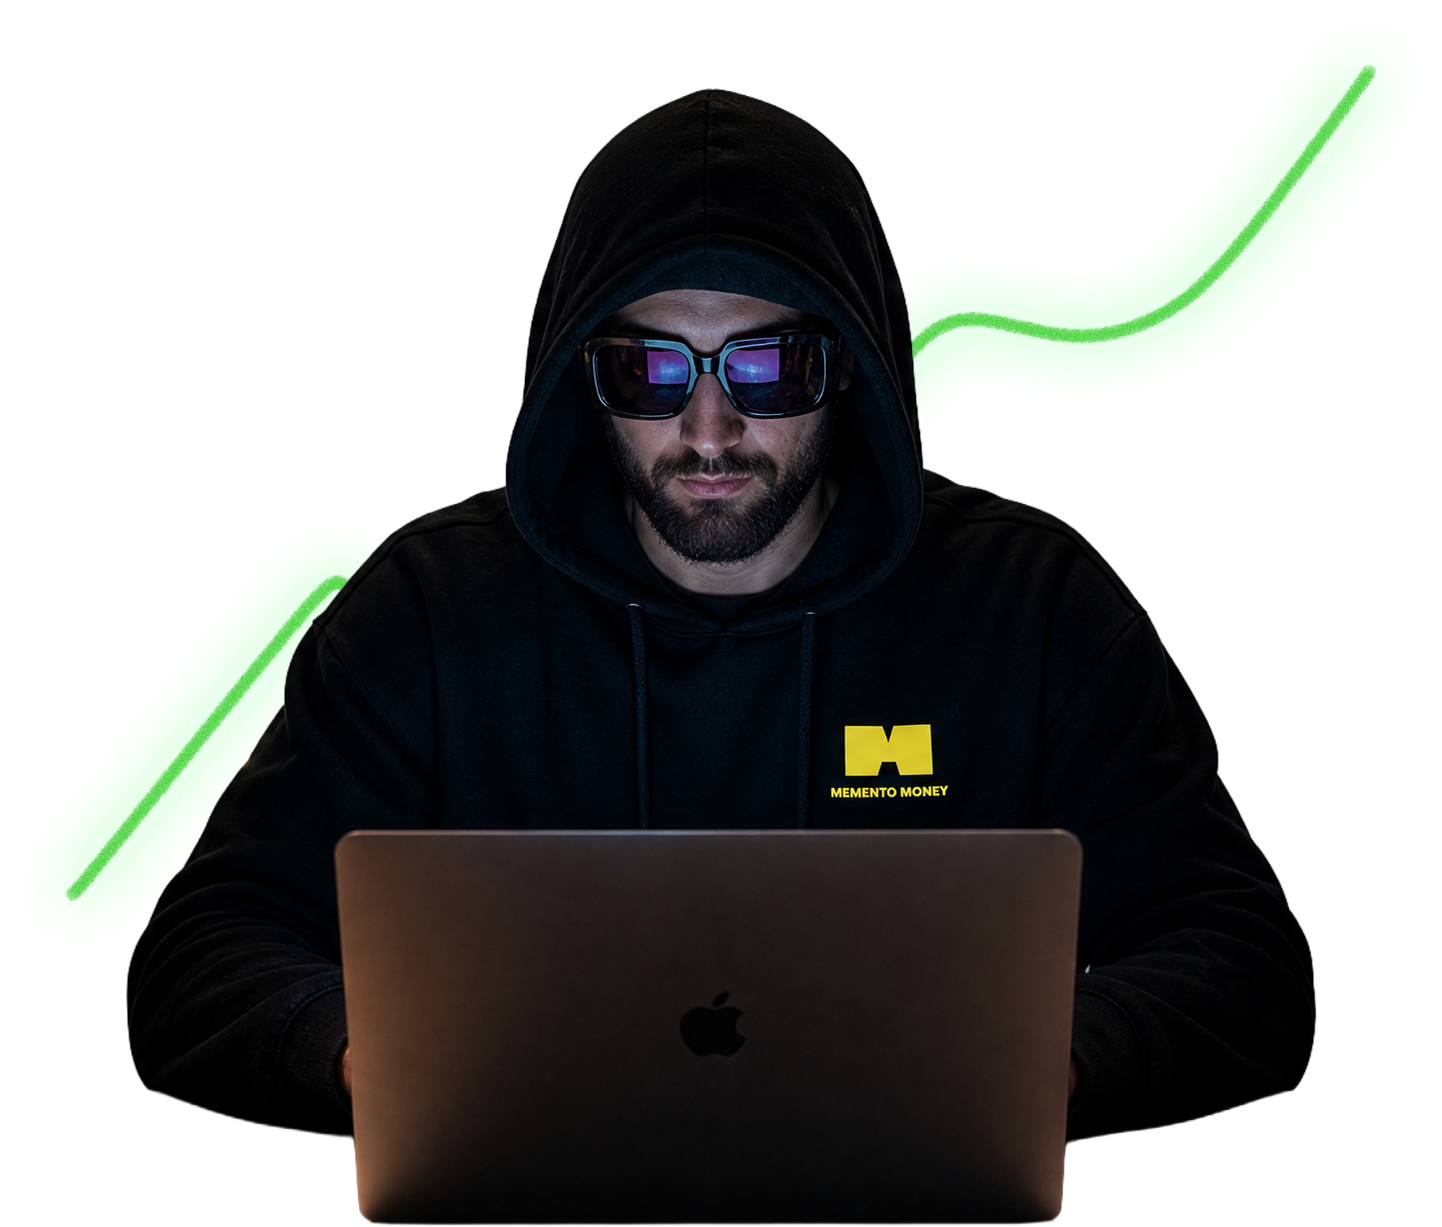
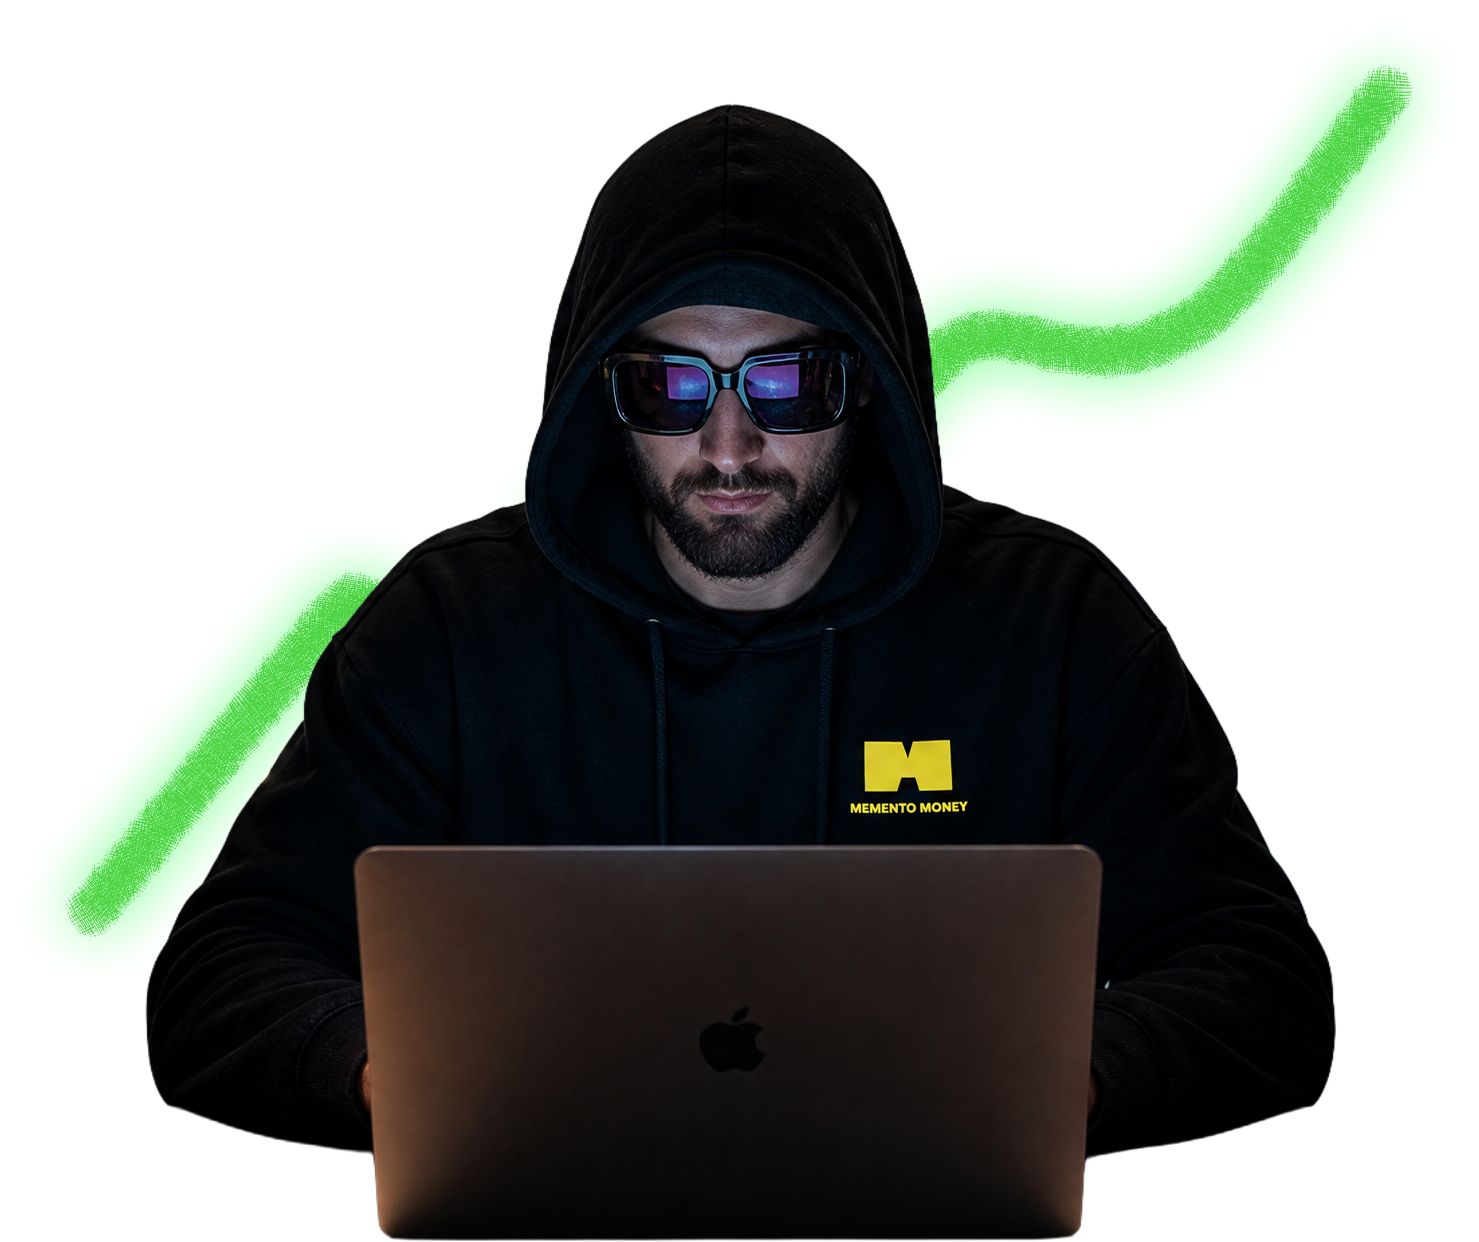
Update landing page: enhance hero video autoplay, optimize list formatting, and refine responsive layout

diff --git a/src/components/landingpage/look.svelte b/src/components/landingpage/look.svelte
@@ -18,14 +18,17 @@
 			formData.append('surname', surname);
 			formData.append('email', email);
 
-			await fetch('https://nanoczm.ecomailapp.cz/public/subscribe/5/ed07fd6b07ff0199fabc8509f995f058', {
-				method: 'POST',
-				headers: {
-					'Content-Type': 'application/x-www-form-urlencoded'
-				},
-				mode: 'no-cors',
-				body: formData.toString()
-			});
+			await fetch(
+				'https://nanoczm.ecomailapp.cz/public/subscribe/5/ed07fd6b07ff0199fabc8509f995f058',
+				{
+					method: 'POST',
+					headers: {
+						'Content-Type': 'application/x-www-form-urlencoded'
+					},
+					mode: 'no-cors',
+					body: formData.toString()
+				}
+			);
 
 			// Direct redirect to registration success page
 			goto('/registrace-uspesna');
@@ -68,10 +71,10 @@
 		<h1
 			class="z-10 mt-6 max-w-[950px] px-4 text-center text-[36px] md:text-[40px] text-white text-nowrap font-extrabold leading-tight"
 		>
-			Nahlédněte <span class="font-['Playball'] text-[#FFBA00] font-normal italic">do našeho</span>
+			Nahlédněte <span class="font-['Playball'] text-[#FFBA00] font-normal">do našeho</span>
 			<br />
-			<span class="font-['Playball'] text-[#FFBA00] font-normal italic mr-1.5">portfolia</span> a
-			sledujte, jak
+			<span class="font-['Playball'] text-[#FFBA00] font-normal mr-1.5">portfolia</span> a sledujte,
+			jak
 			<br />
 			aktuálně přemýšlíme
 			<br />
@@ -90,7 +93,7 @@
 		</div>
 
 		<!-- "Co vše dostanete" Lavender Card -->
-		<div class="z-10 -mt-14 w-full max-w-[480px] px-2 md:px-0">
+		<div class="z-10 -mt-14 w-full max-w-[650px] px-2 md:px-0">
 			<div class="w-full bg-[#E7E1FB] rounded-[20px] p-6 md:p-8 flex flex-col text-[#000000] gap-1">
 				<h3
 					class="text-[22px] md:text-[24px] mt-6 text-[#000000] font-bold text-left tracking-tight"
@@ -100,52 +103,83 @@
 
 				<div class="flex flex-col gap-3">
 					<!-- Item 1 -->
-					<div class="flex items-start gap-2">
-						<img src="/assets/icons/Checkmark.png" alt="Check" class="w-4 h-4 shrink-0 mt-1 select-none pointer-events-none" draggable="false" loading="lazy" />
-						<p class="text-[15px] md:text-[16px] font-normal text-left leading-relaxed">
+					<div class="flex items-start gap-2 md:gap-3">
+						<img
+							src="/assets/icons/Checkmark.png"
+							alt="Check"
+							class="w-4 h-4 md:w-[18px] md:h-[18px] shrink-0 mt-[5px] select-none pointer-events-none"
+							draggable="false"
+							loading="lazy"
+						/>
+						<p class="text-[15px] md:text-[18px] font-normal text-left leading-relaxed">
 							<strong class="font-extrabold text-[#000000]">Deníky Nic Nevim</strong> - Jak
-							přemýšlíme<br />
-							nad našimi obchody za 5 minut týdně
+							přemýšlíme<br class="block md:hidden" /> nad našimi obchody za 5 minut týdně
 						</p>
 					</div>
 
 					<!-- Item 2 -->
-					<div class="flex items-start gap-2">
-						<img src="/assets/icons/Checkmark.png" alt="Check" class="w-4 h-4 shrink-0 mt-1 select-none pointer-events-none" draggable="false" loading="lazy" />
-						<p class="text-[15px] md:text-[16px] font-normal text-left leading-relaxed">
+					<div class="flex items-start gap-2 md:gap-3">
+						<img
+							src="/assets/icons/Checkmark.png"
+							alt="Check"
+							class="w-4 h-4 md:w-[18px] md:h-[18px] shrink-0 mt-[5px] select-none pointer-events-none"
+							draggable="false"
+							loading="lazy"
+						/>
+						<p class="text-[15px] md:text-[18px] font-normal text-left leading-relaxed">
 							<strong class="font-extrabold text-[#000000]">Aktuální příležitosti</strong>, které
-							máme<br />
-							v hledáčku
+							máme<br class="block md:hidden" /> v hledáčku
 						</p>
 					</div>
 
 					<!-- Item 3 -->
-					<div class="flex items-start gap-2">
-						<img src="/assets/icons/Checkmark.png" alt="Check" class="w-4 h-4 shrink-0 mt-1 select-none pointer-events-none" draggable="false" loading="lazy" />
-						<p class="text-[15px] md:text-[16px] font-normal text-left leading-relaxed">
-							<strong class="font-extrabold text-[#000000]">Jednorázový snímek našeho</strong><br />
+					<div class="flex items-start gap-2 md:gap-3">
+						<img
+							src="/assets/icons/Checkmark.png"
+							alt="Check"
+							class="w-4 h-4 md:w-[18px] md:h-[18px] shrink-0 mt-[5px] select-none pointer-events-none"
+							draggable="false"
+							loading="lazy"
+						/>
+						<p class="text-[15px] md:text-[18px] font-normal text-left leading-relaxed">
+							<strong class="font-extrabold text-[#000000]">Jednorázový snímek našeho</strong><br
+								class="block md:hidden"
+							/>
 							<strong class="font-extrabold text-[#000000]">portfolia</strong> pro inspiraci a učení
 						</p>
 					</div>
 
 					<!-- Item 4 -->
-					<div class="flex items-start gap-2">
-						<img src="/assets/icons/Checkmark.png" alt="Check" class="w-4 h-4 shrink-0 mt-1 select-none pointer-events-none" draggable="false" loading="lazy" />
-						<p class="text-[15px] md:text-[16px] font-normal text-left leading-relaxed">
+					<div class="flex items-start gap-2 md:gap-3">
+						<img
+							src="/assets/icons/Checkmark.png"
+							alt="Check"
+							class="w-4 h-4 md:w-[18px] md:h-[18px] shrink-0 mt-[5px] select-none pointer-events-none"
+							draggable="false"
+							loading="lazy"
+						/>
+						<p class="text-[15px] md:text-[18px] font-normal text-left leading-relaxed">
 							<strong class="font-extrabold text-[#000000]">Rozbor našich reálných obchodů</strong
-							>,<br />
-							uvidíte, jak principy používáme v<br />
-							praxi
+							>,<br class="block md:hidden" />
+							uvidíte, jak principy používáme v<br class="block md:hidden" /> praxi
 						</p>
 					</div>
 
 					<!-- Item 5 -->
-					<div class="flex items-start gap-2">
-						<img src="/assets/icons/Checkmark.png" alt="Check" class="w-4 h-4 shrink-0 mt-1 select-none pointer-events-none" draggable="false" loading="lazy" />
-						<p class="text-[15px] md:text-[16px] font-normal text-left leading-relaxed">
-							Koukáte přes rameno člověku, který<br />
-							se podílí na investicích v
-							<strong class="font-extrabold text-[#000000]">řádu stovek</strong><br />
+					<div class="flex items-start gap-2 md:gap-3">
+						<img
+							src="/assets/icons/Checkmark.png"
+							alt="Check"
+							class="w-4 h-4 md:w-[18px] md:h-[18px] shrink-0 mt-[5px] select-none pointer-events-none"
+							draggable="false"
+							loading="lazy"
+						/>
+						<p class="text-[15px] md:text-[18px] font-normal text-left leading-relaxed">
+							Koukáte přes rameno člověku, který<br class="block md:hidden" /> se podílí na
+							investicích v
+							<strong class="font-extrabold text-[#000000]">řádu stovek</strong><br
+								class="block md:hidden"
+							/>
 							<strong class="font-extrabold text-[#000000]">milionů korun</strong>
 						</p>
 					</div>
@@ -189,7 +223,10 @@
 				</p>
 
 				<!-- Sign up Form Container -->
-				<form on:submit={handleSubmit} class="mt-8 flex flex-col gap-3.5 w-full max-w-[440px] mx-auto">
+				<form
+					on:submit={handleSubmit}
+					class="mt-8 flex flex-col gap-3.5 w-full max-w-[480px] mx-auto"
+				>
 					<input
 						type="text"
 						name="firstname"

diff --git a/src/components/landingpage/help.svelte b/src/components/landingpage/help.svelte
@@ -119,7 +119,13 @@
 					class="p-4 md:p-8 rounded-[14px] md:rounded-[20px] flex flex-col justify-between gap-3 md:gap-4"
 					style="background: linear-gradient(135deg, rgba(15, 46, 16, 0.5) 0%, rgba(33, 101, 36, 0.5) 50%, rgba(15, 46, 16, 0.5) 100%);"
 				>
-					<img src="/assets/icons/Kolac.svg" alt="Portfolio Icon" class="w-7 h-7 md:w-10 md:h-10 select-none pointer-events-none" draggable="false" loading="lazy" />
+					<img
+						src="/assets/icons/Kolac.svg"
+						alt="Portfolio Icon"
+						class="w-7 h-7 md:w-10 md:h-10 select-none pointer-events-none"
+						draggable="false"
+						loading="lazy"
+					/>
 					<h3
 						class="text-white text-[16px] md:text-[24px] font-bold leading-[1.4] md:leading-tight"
 					>
@@ -132,7 +138,13 @@
 					class="p-4 md:p-8 rounded-[14px] md:rounded-[20px] flex flex-col justify-between gap-3 md:gap-4"
 					style="background: linear-gradient(135deg, rgba(15, 46, 16, 0.5) 0%, rgba(33, 101, 36, 0.5) 50%, rgba(15, 46, 16, 0.5) 100%);"
 				>
-					<img src="/assets/icons/globe.svg" alt="Globe Icon" class="w-7 h-7 md:w-10 md:h-10 select-none pointer-events-none" draggable="false" loading="lazy" />
+					<img
+						src="/assets/icons/globe.svg"
+						alt="Globe Icon"
+						class="w-7 h-7 md:w-10 md:h-10 select-none pointer-events-none"
+						draggable="false"
+						loading="lazy"
+					/>
 					<h3
 						class="text-white text-[16px] md:text-[24px] font-bold leading-[1.4] md:leading-tight"
 					>
@@ -169,7 +181,7 @@
 			></div>
 
 			<p
-				class="relative z-10 text-white text-[20px] md:text-[36px] font-bold mb-4 mt-15 text-center"
+				class="relative z-10 text-white text-[18px] md:text-[26px] font-bold mb-4 mt-15 text-center"
 			>
 				Zde jsou výsledky <br />naší strategie:
 			</p>
@@ -192,8 +204,6 @@
 					/>
 				</div>
 			</div>
-
-
 
 			<!-- Mobile Navigation Buttons (Mobile only) -->
 			<div class="md:hidden flex justify-center gap-3 mt-4 mb-4">
@@ -246,7 +256,7 @@
 						Cílem naší strategie je<br />dlouhodobé zhodnocení v<br />řádu
 						<span class="text-[#D3C295]">20-30% p.a.</span>
 					</h3>
-					<p class="text-white text-[14px] md:text-[15px] font-medium leading-[1.6]">
+					<p class="text-white text-[15px] font-medium leading-[1.6]">
 						Výsledky z minulých let ukazují, že<br />tato strategie funguje, nicméně i přes<br />to
 						dosažení našeho cíle nelze<br />garantovat. V denících vám ukážeme<br />konkrétní
 						obchody a celý myšlenkový<br />proces, abyste se mohli inspirovat a<br />dělat
@@ -270,7 +280,7 @@
 						Naše obchody sleduje<br />živě <span class="text-[#D3C295]">přes 450 investorů</span><br
 						/>v placené komunitě
 					</h3>
-					<p class="text-white text-[14px] md:text-[15px] font-medium leading-[1.6]">
+					<p class="text-white text-[15px] font-medium leading-[1.6]">
 						Uvnitř naší Discord komunity sdílím<br />každý nový obchod –
 						<span class="text-[#D3C295]">co nakupujeme,<br />proč a kdy prodáváme</span>. Naše
 						výsledky<br />si tam může kdokoliv zpětně dohledat.<br />V tomto deníku můžete
@@ -295,7 +305,7 @@
 						Podílíme se na investicích<br />v řádech
 						<span class="text-[#D3C295]">stovek milionů<br />korun</span>
 					</h3>
-					<p class="text-white text-[14px] md:text-[15px] font-medium leading-[1.6]">
+					<p class="text-white text-[15px] font-medium leading-[1.6]">
 						Nejsme žádní teoretici - spravujeme<br />kapitál pro kvalifikované investory a<br
 						/><span class="text-[#D3C295]">uzavíráme stovky obchodů ročně</span>. To,<br />co vás
 						učíme, sami aplikujeme každý<br />den s reálnými penězi na akciových<br />trzích.

diff --git a/src/components/landingpage/hero.svelte b/src/components/landingpage/hero.svelte
@@ -28,10 +28,10 @@
 		<h1
 			class="z-10 mt-6 max-w-[950px] px-4 text-center text-[36px] md:text-[40px] text-white font-extrabold leading-tight"
 		>
-			Nahlédněte <span class="font-['Playball'] text-[#FFBA00] font-normal italic">do našeho</span>
+			Nahlédněte <span class="font-['Playball'] text-[#FFBA00] font-normal">do našeho</span>
 			<br />
-			<span class="font-['Playball'] text-[#FFBA00] font-normal italic mr-1.5">portfolia</span> a
-			sledujte, jak
+			<span class="font-['Playball'] text-[#FFBA00] font-normal mr-1.5">portfolia</span> a sledujte,
+			jak
 			<br />
 			aktuálně přemýšlíme
 			<br />
@@ -66,7 +66,7 @@
 				style="box-shadow: 0 25px 50px -12px rgb(0 0 0 / 0.25); -webkit-box-shadow: 0 25px 50px -12px rgb(0 0 0 / 0.25); will-change: transform; transform: translate3d(0, 0, 0);"
 			>
 				<iframe
-					src="https://player.vimeo.com/video/1193758413?h=5e3bc3c930&amp;title=0&amp;byline=0&amp;portrait=0&amp;badge=0&amp;autopause=0&amp;player_id=0&amp;app_id=58479"
+					src="https://player.vimeo.com/video/1193758413?h=5e3bc3c930&amp;title=0&amp;byline=0&amp;portrait=0&amp;badge=0&amp;autopause=0&amp;player_id=0&amp;app_id=58479&amp;autoplay=1&amp;muted=1&amp;loop=1"
 					frameborder="0"
 					allow="autoplay; fullscreen; picture-in-picture; clipboard-write; encrypted-media; web-share"
 					referrerpolicy="strict-origin-when-cross-origin"
@@ -82,7 +82,13 @@
 				style="background: linear-gradient(90deg, #4F00A3 0%, #7B00FF 50%, #4F00A3 100%);"
 			>
 				<div class="flex items-center gap-2.5">
-					<img src="/assets/icons/Vector.svg" alt="Icon" class="w-5 h-auto select-none pointer-events-none" draggable="false" loading="lazy" />
+					<img
+						src="/assets/icons/Vector.svg"
+						alt="Icon"
+						class="w-5 h-auto select-none pointer-events-none"
+						draggable="false"
+						loading="lazy"
+					/>
 					<h3 class="text-white text-[18px] font-semibold">Stačí 5 minut týdně</h3>
 				</div>
 				<p class="text-white text-[14px] md:text-[16px] font-normal opacity-90">
@@ -95,7 +101,13 @@
 				style="background: linear-gradient(90deg, #4F00A3 0%, #7B00FF 50%, #4F00A3 100%);"
 			>
 				<div class="flex items-center gap-2.5">
-					<img src="/assets/icons/Vector-1.svg" alt="Icon" class="w-6 h-auto select-none pointer-events-none" draggable="false" loading="lazy" />
+					<img
+						src="/assets/icons/Vector-1.svg"
+						alt="Icon"
+						class="w-6 h-auto select-none pointer-events-none"
+						draggable="false"
+						loading="lazy"
+					/>
 					<h3 class="text-white text-[18px] font-semibold">Sdílíme příležitosti</h3>
 				</div>
 				<p class="text-white text-[14px] md:text-[16px] font-normal opacity-90">
@@ -108,7 +120,13 @@
 				style="background: linear-gradient(90deg, #4F00A3 0%, #7B00FF 50%, #4F00A3 100%);"
 			>
 				<div class="flex items-center gap-2.5">
-					<img src="/assets/icons/Vector-2.svg" alt="Icon" class="w-4.5 h-auto select-none pointer-events-none" draggable="false" loading="lazy" />
+					<img
+						src="/assets/icons/Vector-2.svg"
+						alt="Icon"
+						class="w-4.5 h-auto select-none pointer-events-none"
+						draggable="false"
+						loading="lazy"
+					/>
 					<h3 class="text-white text-[18px] font-semibold">450+ investorů</h3>
 				</div>
 				<p class="text-white text-[14px] md:text-[16px] font-normal opacity-90">

diff --git a/src/components/landingpage/knowhow.svelte b/src/components/landingpage/knowhow.svelte
@@ -81,10 +81,12 @@
 			schránce za 5 minut týdně.
 		</p>
 
-		<!-- Email Sketches Container (Desktop & Mobile: stacked, max-width: 330px) -->
-		<div class="flex flex-col gap-4 mt-6 px-4 w-full max-w-[345px] z-10">
-			<!-- Sketch 1 -->
-			<div class="relative overflow-hidden p-px">
+		<!-- Email Sketches Container (Desktop: side-by-side, Moody's left, Reddit right, larger) -->
+		<div
+			class="flex flex-col md:flex-row gap-4 md:gap-6 mt-5 px-4 w-full max-w-[345px] md:max-w-[840px] md:justify-center z-10"
+		>
+			<!-- Sketch 1 (Reddit) - Top on mobile, Right on desktop -->
+			<div class="relative overflow-hidden p-px w-full md:max-w-[400px] order-1 md:order-2">
 				<img
 					src="/assets/addpics/Email for fast sketching (1) 3.png"
 					alt="Email Sketch 1"
@@ -94,8 +96,8 @@
 				/>
 			</div>
 
-			<!-- Sketch 2 -->
-			<div class="relative overflow-hidden p-px">
+			<!-- Sketch 2 (Moody's) - Bottom on mobile, Left on desktop -->
+			<div class="relative overflow-hidden p-px w-full md:max-w-[400px] order-2 md:order-1">
 				<img
 					src="/assets/addpics/Email for fast sketching (2) 3.png"
 					alt="Email Sketch 2"
@@ -109,7 +111,7 @@
 			onclick={() => {
 				document.getElementById('lead-form')?.scrollIntoView({ behavior: 'smooth' });
 			}}
-			class="group relative px-13 py-3.5 mt-4 bg-[#FFC300] text-[#000000] text-[20px] font-bold rounded-[10px] shadow-[0_0_25px_rgba(254,194,1,0.2)] cursor-pointer transition-all duration-200 hover:scale-105 overflow-hidden"
+			class="group relative px-13 py-3.5 mt-25 bg-[#FFC300] text-[#000000] text-[20px] font-bold rounded-[10px] shadow-[0_0_25px_rgba(254,194,1,0.2)] cursor-pointer transition-all duration-200 hover:scale-105 overflow-hidden"
 		>
 			<span class="relative z-10">Přidat se zdarma</span>
 			<div
